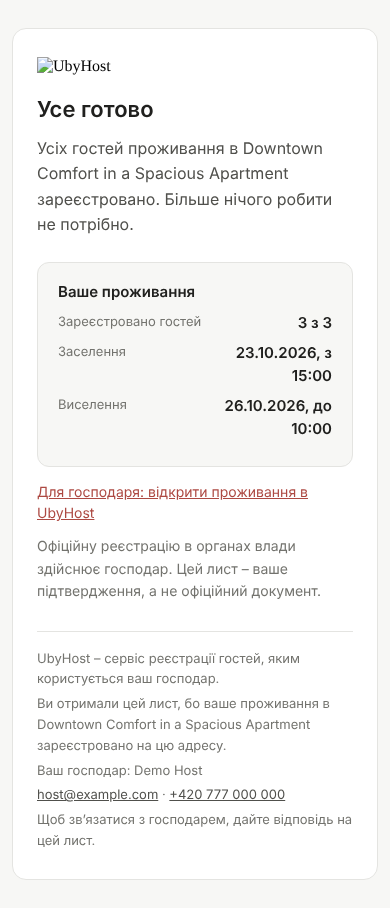
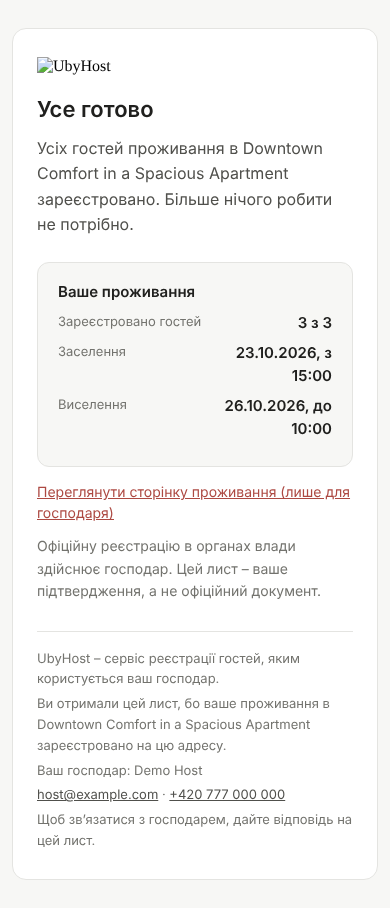
0387 addendum B: host-only link label
Owner decision: the completion mail's host link reads
"See your stay page (host only)" in six languages (en, cs, de, es, fr, uk).
Only the mail_completion_host_action values change; the test label and
task docs follow. Previews re-rendered for en, cs, uk.

Claude-Session: https://claude.ai/code/session_01K9j9qshn6jTnqN2bAe4j8Z

Changed region(s): [[0.0923, 0.5242, 0.8923, 0.5859]]

diff --git a/App/app/i18n.py b/App/app/i18n.py
@@ -607,7 +607,7 @@ STRINGS: Dict[str, Dict[str, str]] = {
         "mail_completion_checkin_value": "%(date)s, from %(time)s",
         "mail_completion_checkout_label": "Check-out",
         "mail_completion_checkout_value": "%(date)s, by %(time)s",
-        "mail_completion_host_action": "For your host: open this stay in UbyHost",
+        "mail_completion_host_action": "See your stay page (host only)",
         "mail_reminder_guest_subject": (
             "Tomorrow at %(property)s: %(filled)s of %(expected)s guests registered"
         ),
@@ -1255,7 +1255,7 @@ STRINGS: Dict[str, Dict[str, str]] = {
         "mail_completion_checkin_value": "%(date)s od %(time)s",
         "mail_completion_checkout_label": "Odjezd",
         "mail_completion_checkout_value": "%(date)s do %(time)s",
-        "mail_completion_host_action": "Pro hostitele: otevřít pobyt v UbyHost",
+        "mail_completion_host_action": "Zobrazit stránku pobytu (jen pro hostitele)",
         "mail_reminder_guest_subject": (
             "Zítra přijíždíte (%(property)s): zaregistrováno %(filled)s z %(expected)s "
             "hostů"
@@ -1702,7 +1702,7 @@ STRINGS: Dict[str, Dict[str, str]] = {
         "mail_completion_checkin_value": "%(date)s ab %(time)s",
         "mail_completion_checkout_label": "Check-out",
         "mail_completion_checkout_value": "%(date)s bis %(time)s",
-        "mail_completion_host_action": "Für Ihren Gastgeber: Aufenthalt in UbyHost öffnen",
+        "mail_completion_host_action": "Zur Aufenthaltsseite (nur für Gastgeber)",
         "mail_reminder_guest_subject": "Morgen in %(property)s: %(filled)s von %(expected)s Gästen registriert",
         "mail_reminder_guest_subject_no_count": "Morgen in %(property)s: Die Gästeregistrierung ist nicht abgeschlossen",
         "mail_reminder_guest_preheader": "Ihr Aufenthalt beginnt morgen und die Registrierung ist nicht vollständig.",
@@ -2125,7 +2125,7 @@ STRINGS: Dict[str, Dict[str, str]] = {
         "mail_completion_checkin_value": "%(date)s, desde las %(time)s",
         "mail_completion_checkout_label": "Salida",
         "mail_completion_checkout_value": "%(date)s, antes de las %(time)s",
-        "mail_completion_host_action": "Para su anfitrión: abrir la estancia en UbyHost",
+        "mail_completion_host_action": "Ver la página de su estancia (solo anfitrión)",
         "mail_reminder_guest_subject": "Mañana en %(property)s: %(filled)s de %(expected)s huéspedes registrados",
         "mail_reminder_guest_subject_no_count": "Mañana en %(property)s: el registro de huéspedes no está terminado",
         "mail_reminder_guest_preheader": "Su estancia empieza mañana y el registro no está completo.",
@@ -2548,7 +2548,7 @@ STRINGS: Dict[str, Dict[str, str]] = {
         "mail_completion_checkin_value": "%(date)s, à partir de %(time)s",
         "mail_completion_checkout_label": "Départ",
         "mail_completion_checkout_value": "%(date)s, avant %(time)s",
-        "mail_completion_host_action": "Pour votre hôte : ouvrir le séjour dans UbyHost",
+        "mail_completion_host_action": "Voir la page du séjour (hôte uniquement)",
         "mail_reminder_guest_subject": "Demain à %(property)s : %(filled)s voyageurs sur %(expected)s enregistrés",
         "mail_reminder_guest_subject_no_count": "Demain à %(property)s : l'enregistrement des voyageurs n'est pas terminé",
         "mail_reminder_guest_preheader": "Votre séjour commence demain et l'enregistrement n'est pas complet.",

diff --git a/App/app/guest_uk_i18n.py b/App/app/guest_uk_i18n.py
@@ -409,7 +409,7 @@ STRINGS: Dict[str, str] = {
     "mail_completion_checkin_value": "%(date)s, з %(time)s",
     "mail_completion_checkout_label": "Виселення",
     "mail_completion_checkout_value": "%(date)s, до %(time)s",
-    "mail_completion_host_action": "Для господаря: відкрити проживання в UbyHost",
+    "mail_completion_host_action": "Переглянути сторінку проживання (лише для господаря)",
     "mail_reminder_guest_subject": "Завтра в %(property)s: зареєстровано гостей %(filled)s з %(expected)s",
     "mail_reminder_guest_subject_no_count": "Завтра в %(property)s: реєстрацію гостей не завершено",
     "mail_reminder_guest_preheader": "Ваше проживання починається завтра, а реєстрацію не завершено.",

diff --git a/App/tests/test_guest_mail.py b/App/tests/test_guest_mail.py
@@ -511,7 +511,7 @@ def test_the_completion_mail_links_only_the_host():
         host_url=host_url,
     )
     html_part = html.unescape(content["html"])
-    label = "For your host: open this stay in UbyHost"
+    label = "See your stay page (host only)"
     assert host_url in content["html"]
     assert host_url in content["text"]
     assert label in html_part

diff --git a/docs/tasks/0387-completion-mail-at-a-glance.md b/docs/tasks/0387-completion-mail-at-a-glance.md
@@ -252,3 +252,14 @@ Commands: `cd App && .venv/bin/python -m pytest tests/test_guest_mail.py tests/t
 ### Step A5: previews
 
 Re-render the 3 previews as in step 5, adding `host_url="https://app.ubyhost.com/reservations/17"` and without `address` (uk with uk enabled). Commit as `0387 addendum A`. Append a 3-line "Addendum A" section to the report.
+
+## Addendum B (owner, 2026-10-25)
+
+Host link label is now "See your stay page (host only)" in six languages (owner):
+
+- en: See your stay page (host only)
+- cs: Zobrazit stránku pobytu (jen pro hostitele)
+- de: Zur Aufenthaltsseite (nur für Gastgeber)
+- es: Ver la página de su estancia (solo anfitrión)
+- fr: Voir la page du séjour (hôte uniquement)
+- uk: Переглянути сторінку проживання (лише для господаря)

diff --git a/docs/tasks/0387-report.md b/docs/tasks/0387-report.md
@@ -48,3 +48,4 @@ None.
 - The guest stay link is gone from the receipt; the only link is a host-only "open this stay in UbyHost" link (A1 to A3), and the address row is dropped (A6). Mail test set: 203 passed.
 - Previews re-rendered with `host_url` and no address (A5), with `UBYHOST_GUEST_LANGS=en,cs,uk`; the three PNGs are overwritten.
 - Open question: the footer still says "registered with this address" in all three languages (existing copy, not in the brief, not changed).
+Addendum B: host link label is now 'See your stay page (host only)' in six languages (owner).
